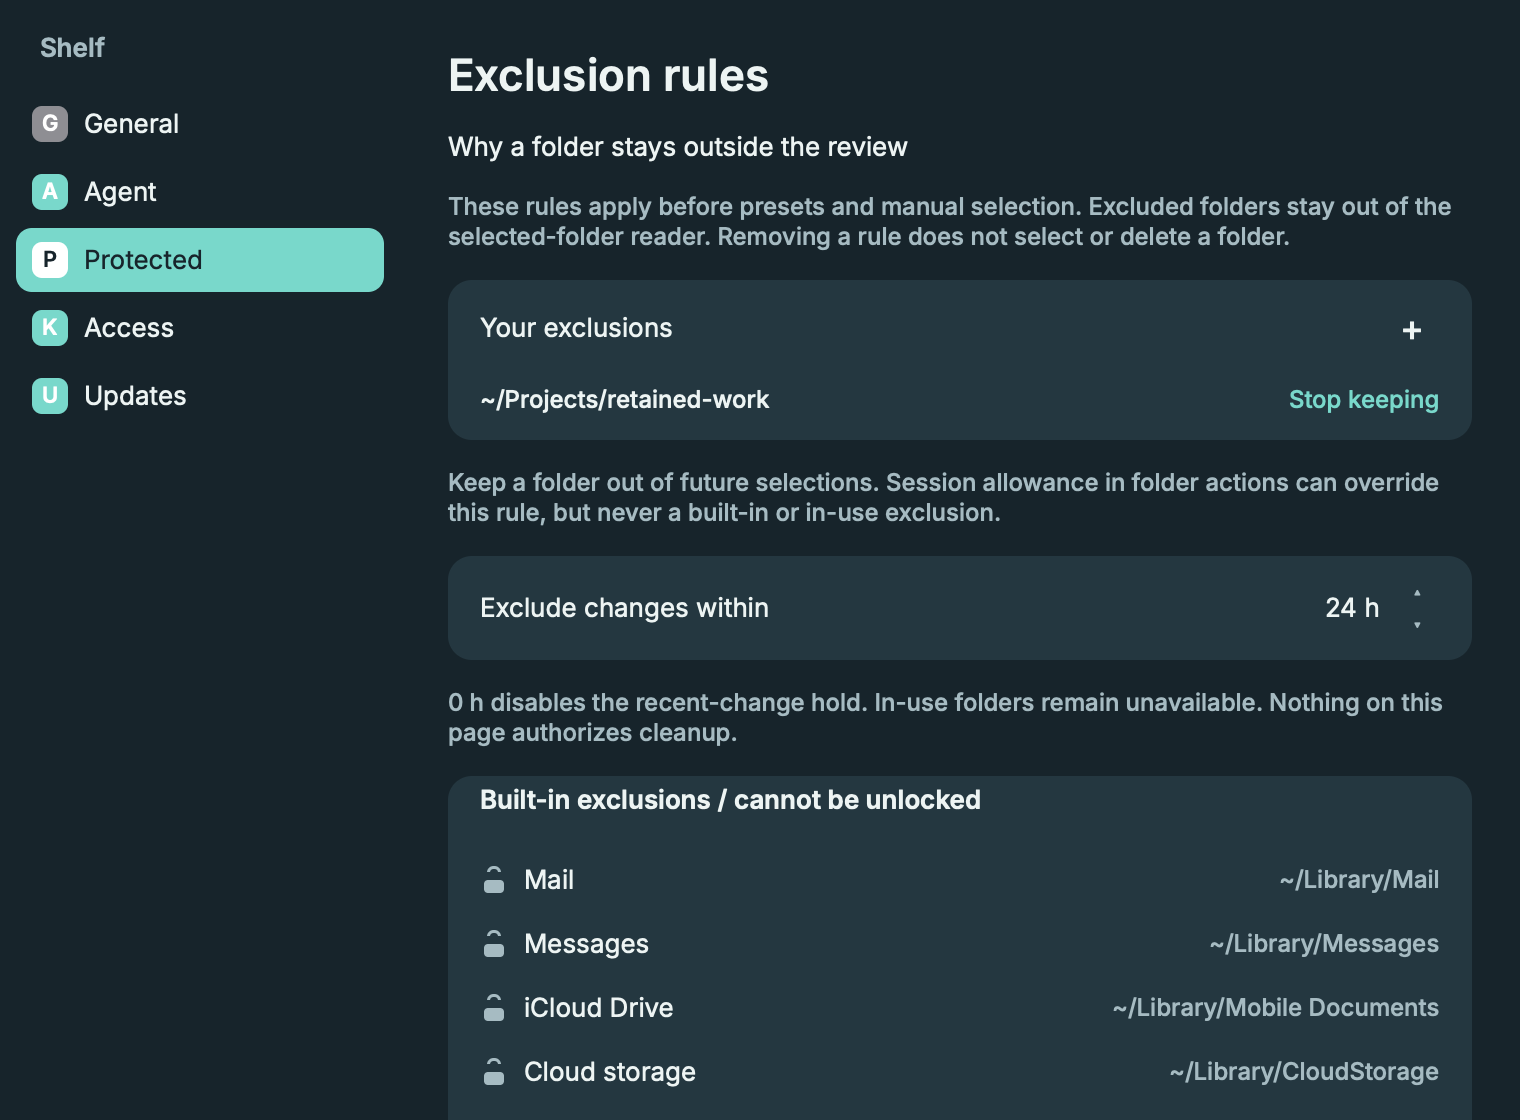
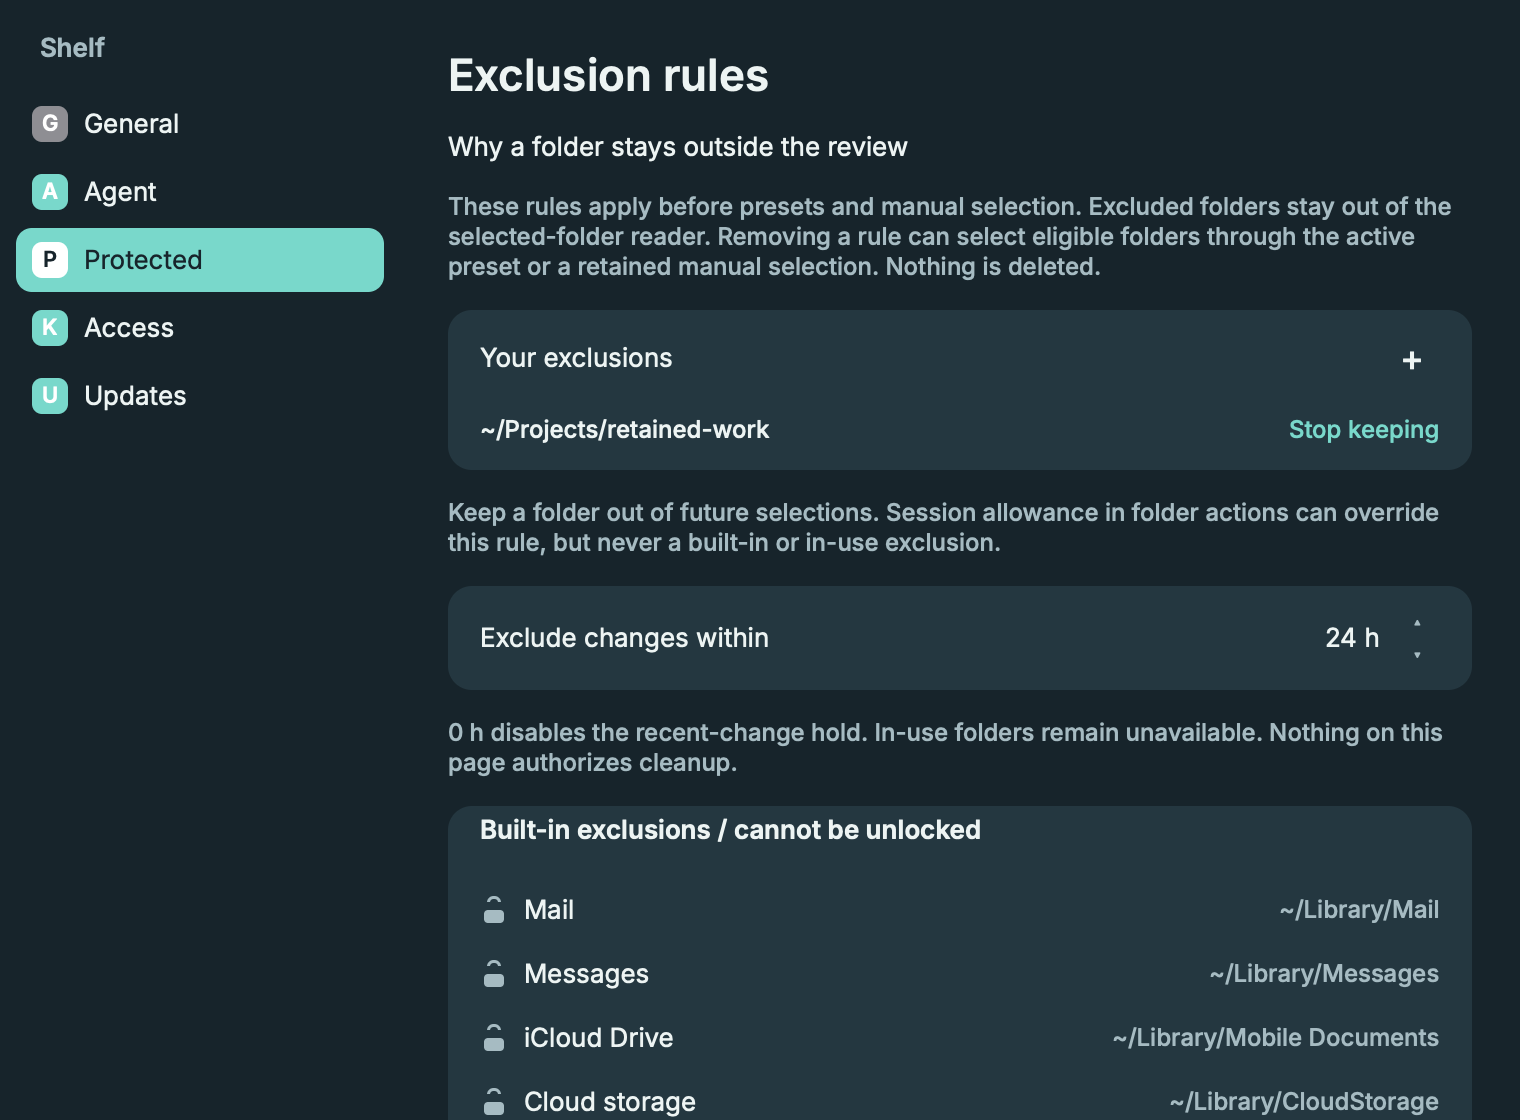
fix: address Review ledger feedback before beta.3
Keep resized Actions scrollable and reveal keyboard selections without overriding the user's size. Show live single-folder selection reasons and explain rule-removal selection accurately.\n\nRuntime regressions reproduced filter clipping and stale action reasons before the fix; full tests, package checks and inspected headless renders pass.

Amp-Thread-ID: https://ampcode.com/threads/T-01a1b577-ee9a-728a-8934-21e8dd44d696

diff --git a/src/main.rs b/src/main.rs
@@ -1347,6 +1347,73 @@ mod tests {
     }
 
     #[test]
+    fn resized_actions_reveal_the_filter_and_keyboard_selection() {
+        let mut rt = runtime();
+        click(&mut rt, "actions");
+        rt.set_viewport((360.0, 120.0), 2.0);
+        rt.frame(0.0);
+        rt.wheel(180.0, 60.0, -2000.0);
+        rt.frame(0.0);
+        let search = rt.presented("action-search").unwrap().0;
+        assert!(
+            search[1] >= 0.0 && search[1] + search[3] <= 120.0,
+            "{search:?}"
+        );
+        for id in [
+            "keep", "unlock", "select", "analyse", "ask", "pause", "settings", "close", "quit",
+            "finder",
+        ] {
+            rt.update(|state, tx| {
+                on_key(
+                    state,
+                    &KeyEvent {
+                        key: rune::Key::Down,
+                        mods: rune::Mods::default(),
+                    },
+                    tx,
+                );
+            });
+            rt.frame(0.0);
+            let rect = rt.presented(&format!("action-{id}")).unwrap().0;
+            assert!(
+                rect[1] >= 0.0 && rect[1] + rect[3] <= 120.0,
+                "{id}: {rect:?}"
+            );
+        }
+    }
+
+    #[test]
+    fn ledger_and_folder_actions_explain_current_selection() {
+        let mut rt = runtime();
+        rt.update(|state, _| {
+            apply_level(state, Level::Balanced);
+            state.ticks[2] = Some(false);
+            state.ticks[4] = Some(true);
+        });
+        rt.frame(0.0);
+        for reason in [
+            "Excluded · Shelf leaves this",
+            "Selected by you",
+            "Excluded by you",
+            "Balanced preset · idle 48 h",
+            "Not in this preset · idle 0 h",
+        ] {
+            assert!(
+                rt.elements()
+                    .iter()
+                    .any(|element| element.text.as_deref() == Some(reason)),
+                "{reason}"
+            );
+        }
+        rt.update(|state, _| palette::open(state, Some(palette::Target::Group(2))));
+        rt.frame(0.0);
+        assert!(rt
+            .elements()
+            .iter()
+            .any(|element| element.text.as_deref() == Some("Excluded by you")));
+    }
+
+    #[test]
     fn quit_requests_app_exit_from_actions_and_the_keyboard() {
         let mut rt = runtime();
         click(&mut rt, "actions");

diff --git a/src/palette.rs b/src/palette.rs
@@ -3,7 +3,7 @@
 use std::process::{Command, Stdio};
 
 use rune::tok::{type_, TextStyle};
-use rune::{col, row, text, El, Key, KeyEvent, Transition, Tx};
+use rune::{col, row, text, El, Key, KeyEvent, ScrollSpec, Transition, Tx};
 
 use super::{leaf_view, paint, rule, unix_now, State, INK, MUTED, PANEL, TRACK};
 use crate::catalog;
@@ -144,6 +144,9 @@ pub fn on_key(s: &mut State, ev: &KeyEvent, _tx: &mut Tx) -> bool {
         _ => {}
     }
     fit(s, _tx);
+    if let Some(action) = rows(s).get(s.highlight) {
+        _tx.scroll_into_view(format!("action-{}", action.id));
+    }
     true
 }
 
@@ -156,7 +159,13 @@ pub fn panel(s: &State) -> El {
             .catalog
             .groups
             .get(index)
-            .map(|group| group.detail.clone())
+            .map(|group| {
+                if group.count == 1 {
+                    super::selection_reason(s, group.first)
+                } else {
+                    group.detail.clone()
+                }
+            })
             .unwrap_or_else(|| "Folder no longer in scan".into()),
         _ => "No folder target".into(),
     };
@@ -178,6 +187,8 @@ pub fn panel(s: &State) -> El {
     col()
         .key("palette")
         .w_full()
+        .h_full()
+        .scroll(ScrollSpec { stick_bottom: false })
         .fill(paint(PANEL))
         .radius(14.0)
         .transition(Transition::none())

diff --git a/src/settings.rs b/src/settings.rs
@@ -645,7 +645,7 @@ fn protected(state: &Settings) -> El {
         .gap(14.0)
         .child(heading("Exclusion rules"))
         .child(text("Why a folder stays outside the review").font(type_::BODY).color(paint(INK)))
-        .child(text("These rules apply before presets and manual selection. Excluded folders stay out of the selected-folder reader. Removing a rule does not select or delete a folder.")
+        .child(text("These rules apply before presets and manual selection. Excluded folders stay out of the selected-folder reader. Removing a rule can select eligible folders through the active preset or a retained manual selection. Nothing is deleted.")
             .font(type_::LABEL).color(paint(MUTED)).wrap().w_full())
         .child(card(folders))
         .child(text("Keep a folder out of future selections. Session allowance in folder actions can override this rule, but never a built-in or in-use exclusion.")

diff --git a/RELEASE_NOTES.md b/RELEASE_NOTES.md
@@ -4,6 +4,7 @@
 
 - First independent Review ledger implementation from PR #13: reasons/exclusions beside a non-deleting receipt, compact system readings, responsive stacking and clearer folder actions/Protected/Access settings. Design review is still in progress; this prerelease does not merge the PR or declare the presentation review complete.
 - Short README, with detailed agent/update guidance and historical screenshots retained in `docs/guide.md`.
+- Review follow-ups: resized Actions scroll to the filter and reveal keyboard selections; single-folder actions use the current selection reason; exclusion settings explain that removing a rule can restore preset/manual selection without deletion.
 - Existing scoped broker, protection rules and fail-closed updater remain. All current installations are manual-update-only; signed checks and opt-in downloads remain available. Homebrew installs must use Homebrew.
 
 ### Credit and scope
